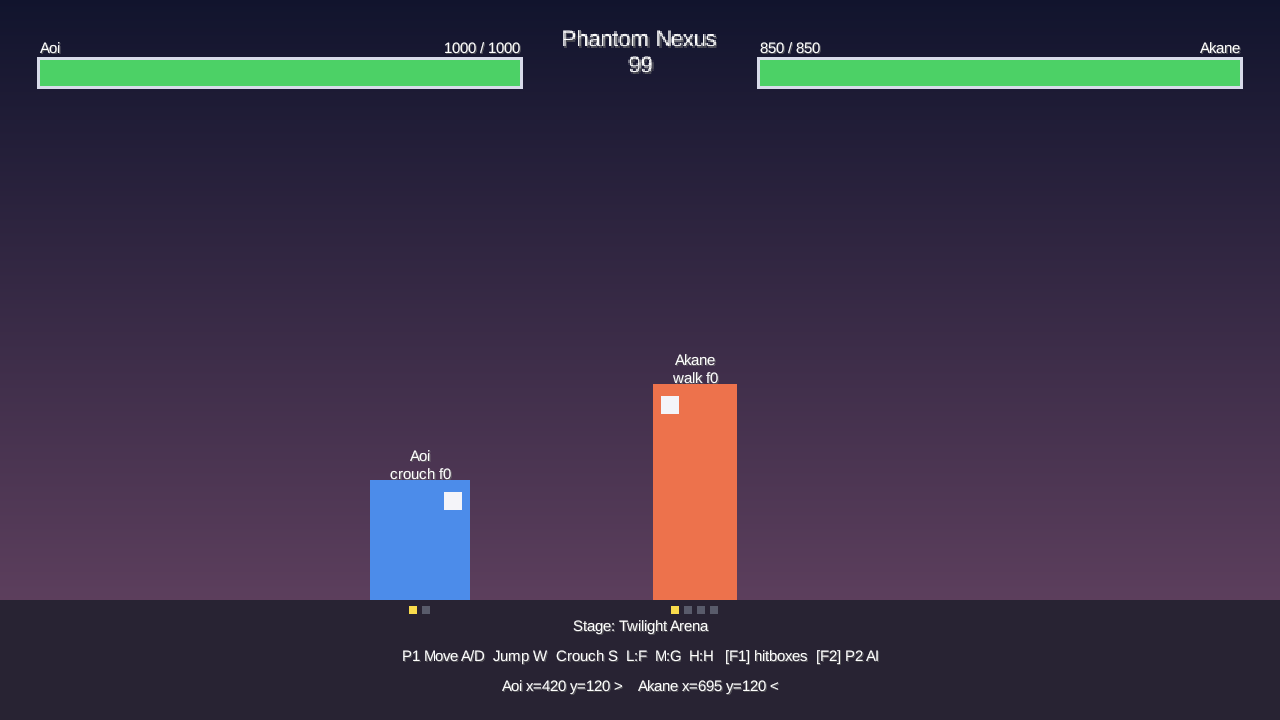
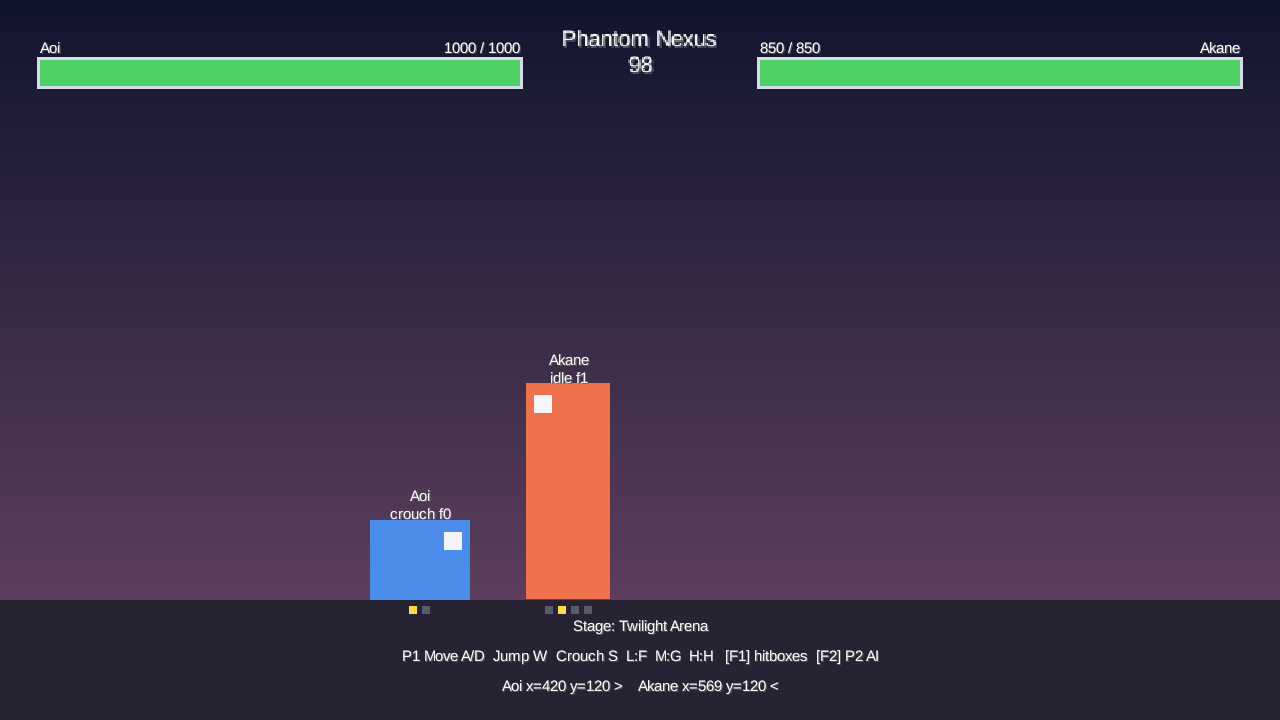
Task 25: しゃがみ hurtbox を height/3 に変更（Codex P2 指摘対応）
height/2（120px）では swift_bolt（hitboxOffsetY=100）が回避できないため
height/3（≒80px）に変更。これにより hitboxOffsetY≥100 の弾や高攻撃を
確実にかわせる高さになる。描画（GameRenderer）・docs も同様に更新。

Changed region(s): [[0.4062, 0.4889, 0.5938, 0.8556], [0.2812, 0.6111, 0.375, 0.7639], [0.5312, 0.9472, 0.5625, 0.9778]]

diff --git a/GameRuntime/Rendering/com/phantomnexus/runtime/rendering/GameRenderer.java b/GameRuntime/Rendering/com/phantomnexus/runtime/rendering/GameRenderer.java
@@ -255,7 +255,7 @@ public class GameRenderer {
         // 待機 / 歩行の進行を縦ボブで可視化（空中は物理で位置が変わるためボブ 0）。
         float bottom = f.getY() + anim.bobOffset();
         // しゃがみ中は高さを半分にして低姿勢を可視化（Task 25）。
-        float drawHeight = f.isCrouching() ? d.getHeight() / 2f : d.getHeight();
+        float drawHeight = f.isCrouching() ? d.getHeight() / 3f : d.getHeight();
         // のけぞり中は白くフラッシュして被弾を可視化する。
         shapes.setColor(f.isInHitstun() ? hitstunFlash(color) : color);
         shapes.rect(left, bottom, d.getWidth(), drawHeight);
@@ -372,7 +372,7 @@ public class GameRenderer {
     /** ファイターの名前と現在の状態（攻撃中は区間、それ以外はアニメ状態 / フレーム）を矩形の上に表示する。 */
     private void drawNameLabel(Fighter f, FighterAnimator anim) {
         float centerX = f.getX();
-        float displayHeight = f.isCrouching() ? f.getDef().getHeight() / 2f : f.getDef().getHeight();
+        float displayHeight = f.isCrouching() ? f.getDef().getHeight() / 3f : f.getDef().getHeight();
         float top = f.getY() + displayHeight;
         drawCentered(f.getDef().getName(), centerX, top + 30f);
         String stateLabel;

diff --git a/GameRuntime/Battle/com/phantomnexus/runtime/battle/CollisionSystem.java b/GameRuntime/Battle/com/phantomnexus/runtime/battle/CollisionSystem.java
@@ -26,10 +26,15 @@ public final class CollisionSystem {
         // ユーティリティ（インスタンス化禁止）
     }
 
-    /** ファイターの食らい判定。しゃがみ中は高さを半分にして弾やハイ攻撃をかわせるようにする（Task 25）。 */
+    /**
+     * ファイターの食らい判定。しゃがみ中は高さを 1/3 に削減して弾や高攻撃をかわせるようにする（Task 25）。
+     *
+     * <p>1/3（≒80px for height=240）にすることで、既定の弾 hitboxOffsetY（最低 100px）を下回り、
+     * しゃがみで飛び道具を実際に回避できる。
+     */
     public static Hurtbox hurtbox(Fighter f) {
         Character d = f.getDef();
-        float h = f.isCrouching() ? d.getHeight() / 2f : d.getHeight();
+        float h = f.isCrouching() ? d.getHeight() / 3f : d.getHeight();
         return new Hurtbox(f.getX() - d.getWidth() / 2f, f.getY(), d.getWidth(), h);
     }
 

diff --git a/docs/BattleSystem.md b/docs/BattleSystem.md
@@ -165,10 +165,10 @@
 
 - **入力**：DOWN キー押し続け（P1: S、P2: ↓）で発動。**接地中・非攻撃中・非のけぞり中**のみ遷移する。
 - **行動拘束**：しゃがみ中は横移動・ジャンプ・通常技入力を受け付けない（しゃがみ攻撃は将来拡張）。DOWN を離すと立ち上がる。
-- **食らい判定**：しゃがみ中は hurtbox の高さを半分（`def.getHeight() / 2`）にする。これにより相手の飛び道具や高めの攻撃をかわせる（`CollisionSystem.hurtbox()` が `Fighter.isCrouching()` を参照）。
+- **食らい判定**：しゃがみ中は hurtbox の高さを 1/3（`def.getHeight() / 3`、height=240 なら 80px）にする。これにより `hitboxOffsetY ≥ 100px` の飛び道具や高めの攻撃をかわせる（`CollisionSystem.hurtbox()` が `Fighter.isCrouching()` を参照）。
 - **攻撃・被弾による解除**：攻撃開始または `applyHit()` で `crouching = false` にリセットする。
 - **アニメーション**：`AnimationState.CROUCH`（2 フレームループ）。優先順は **のけぞり > 攻撃 > 空中 > しゃがみ > 歩行 > 待機**。
-- **プレースホルダ描画**：`GameRenderer` がしゃがみ中のキャラを `height / 2` の矩形で描く（スプライト導入後は専用コマに差し替え）。
+- **プレースホルダ描画**：`GameRenderer` がしゃがみ中のキャラを `height / 3` の矩形で描く（スプライト導入後は専用コマに差し替え）。
 - **AI**：`AiController` は常に `crouchHeld=false` を渡す（AI はしゃがまない）。
 
 ---
@@ -203,5 +203,5 @@ Task 24 で技定義を 1 件から配列に拡張した。
 - (Task 20) 必殺技ステートを追記。`Character.specialMove` ＋ `Move.projectile`/`projectileSpeed` ＋ `Battle/Projectile` を新設し、波動拳で飛び道具を発射。`Fighter` を `currentMove` ベースに整理（通常 / 必殺の共通化）。
 - (Task 21) 簡易 AI（`Battle/AiController`、接近 → 間合いで通常攻撃）を追記。Core は P2 を既定 AI（F2 トグル / 撮影 `ai=false`）。
 - (Task 23) ドキュメント整備。ドラフト註記を実装済みの記述へ更新し、README の操作方法 / 実装済み機能、CLAUDE.md の現フェーズを整合させた（仕様変更なし）。
-- (Task 25) しゃがみ追加。`Fighter` に `crouching` フィールド・`isCrouching()` を追加し、DOWN 押し続けで接地中のみ遷移。しゃがみ中は横移動/ジャンプ/通常技不可、hurtbox 高さを半分に削減（`CollisionSystem.hurtbox()` を更新）。`AnimationState.CROUCH` を追加し `FighterAnimator.resolve()` に織り込み。`Fighter.update()` に `crouchHeld` 引数を追加し全呼び出し元（`PhantomNexusGame`・`AiController`）を更新。
+- (Task 25) しゃがみ追加。`Fighter` に `crouching` フィールド・`isCrouching()` を追加し、DOWN 押し続けで接地中のみ遷移。しゃがみ中は横移動/ジャンプ/通常技不可（同フレームの DOWN+攻撃も抑止）、hurtbox 高さを 1/3（80px, `hitboxOffsetY≥100` の弾をかわせる値）に削減（`CollisionSystem.hurtbox()` を更新）。`AnimationState.CROUCH` を追加し `FighterAnimator.resolve()` に織り込み。`Fighter.update()` に `crouchHeld` 引数を追加し全呼び出し元（`PhantomNexusGame`・`AiController`）を更新。
 - (Task 24) 複数技対応。`InputAction.ATTACK` → `ATTACK_LIGHT`/`ATTACK_MEDIUM`/`ATTACK_HEAVY` の 3 ボタン化、`Character.normalMoves[]`/`specialMoves[]` への配列拡張、後方互換マイグレーション（`migrateIfLegacy`）、button/command バリデーション（`VALID_BUTTONS`/`VALID_COMMANDS`）を追記。攻撃処理・必殺技ステートの各節を更新し「複数技対応（Task 24）」節を追加。
